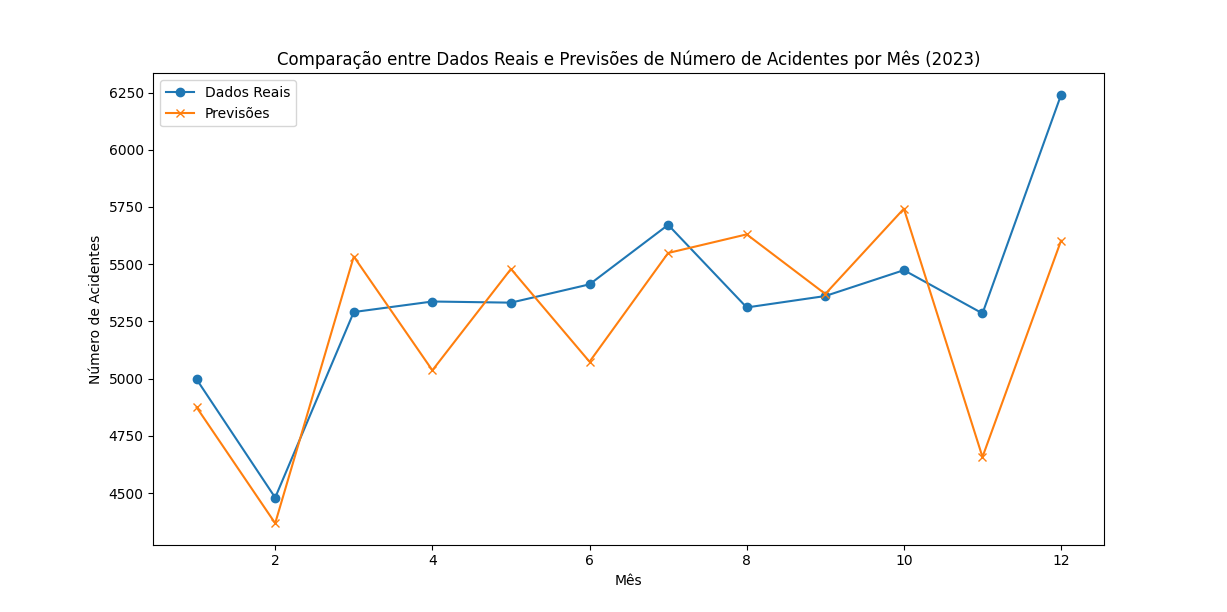
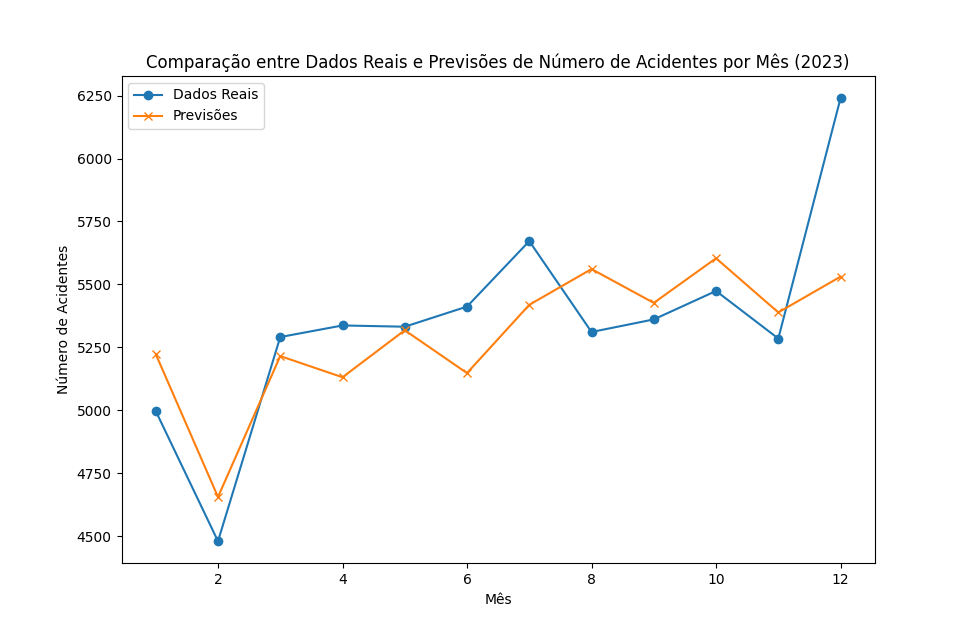
adicionando modelos: SVM, XG-BOOST, K-NN e ELASTIC-NET

diff --git a/XG-BOOST-por-dia.py b/XG-BOOST-por-dia.py
@@ -1,5 +1,7 @@
 import pandas as pd
-from sklearn.neighbors import KNeighborsRegressor
+import numpy as np
+import xgboost as xgb
+from sklearn.preprocessing import StandardScaler
 import matplotlib.pyplot as plt
 
 # Carregar os dados de treinamento
@@ -9,14 +11,21 @@ dados_treino = pd.read_csv('./planilhas/acidentes_por_ano_mes_dia_treino.csv')
 X_treino = dados_treino[['ano', 'mes', 'dia']]
 y_treino = dados_treino['Acidentes']
 
-# Instanciar e treinar o modelo KNN
-modelo = KNeighborsRegressor(n_neighbors=8)  # Defina o número de vizinhos desejado (n_neighbors)
-modelo.fit(X_treino, y_treino)
+# Normalizar os dados
+scaler = StandardScaler()
+X_treino_scaled = scaler.fit_transform(X_treino)
+
+# Construir o modelo XGBoost
+model = xgb.XGBRegressor()
+
+# Treinar o modelo
+model.fit(X_treino_scaled, y_treino)
 
 # Fazer previsões para os dados de teste (ano, mês, dia)
 dados_teste = pd.read_csv('./planilhas/acidentes_por_ano_mes_dia_teste.csv')
 X_teste = dados_teste[['ano', 'mes', 'dia']]
-previsoes = modelo.predict(X_teste)
+X_teste_scaled = scaler.transform(X_teste)  # Normalizar os dados de teste
+previsoes = model.predict(X_teste_scaled)
 
 # Adicionar as previsões ao DataFrame de teste
 dados_teste['Previsoes'] = previsoes

diff --git a/XG-BOOT-percentual.py b/XG-BOOT-percentual.py
@@ -1,5 +1,5 @@
 import pandas as pd
-from sklearn.neighbors import KNeighborsRegressor
+from xgboost import XGBRegressor
 import matplotlib.pyplot as plt
 
 # Carregar os dados de treinamento
@@ -9,8 +9,8 @@ dados_treino = pd.read_csv('./planilhas/acidentes_por_ano_mes_dia_treino.csv')
 X_treino = dados_treino[['ano', 'mes', 'dia']]
 y_treino = dados_treino['Acidentes']
 
-# Instanciar e treinar o modelo KNN
-modelo = KNeighborsRegressor(n_neighbors=8)  # Defina o número de vizinhos desejado (n_neighbors)
+# Instanciar e treinar o modelo XGBoost
+modelo = XGBRegressor()
 modelo.fit(X_treino, y_treino)
 
 # Fazer previsões para os dados de teste (ano, mês, dia)
@@ -34,7 +34,7 @@ meses = dados_teste['mes'].unique()
 plt.plot(meses, acertos_por_mes, label='Média de Acertos', marker='o')
 plt.xlabel('Mês')
 plt.ylabel('Porcentagem de Acertos')
-plt.title('Média de Acertos das Previsões de Número de Acidentes por Mês (2023)')
+plt.title('Média de Acertos das Previsões de Número de Acidentes por Mês (2023) - XGBoost')
 plt.legend()
 plt.show()
 

diff --git a/DECISION-TREE-REGRESSOR-percentual-arcetos.py b/DECISION-TREE-REGRESSOR-percentual-arcetos.py
@@ -6,16 +6,16 @@ import matplotlib.pyplot as plt
 dados_treino = pd.read_csv('./planilhas/acidentes_por_ano_mes_dia_treino.csv')
 
 # Separar as features (X) e o target (y) para treinamento
-X_treino = dados_treino[['ano', 'mes', 'dia']]
+X_treino = dados_treino[['ano', 'mes']]
 y_treino = dados_treino['Acidentes']
 
 # Instanciar e treinar o modelo KNN
 modelo = KNeighborsRegressor(n_neighbors=8)  # Defina o número de vizinhos desejado (n_neighbors)
 modelo.fit(X_treino, y_treino)
 
-# Fazer previsões para os dados de teste (ano, mês, dia)
+# Fazer previsões para os dados de teste (ano, mês)
 dados_teste = pd.read_csv('./planilhas/acidentes_por_ano_mes_dia_teste.csv')
-X_teste = dados_teste[['ano', 'mes', 'dia']]
+X_teste = dados_teste[['ano', 'mes']]
 previsoes = modelo.predict(X_teste)
 
 # Adicionar as previsões ao DataFrame de teste

diff --git a/ELASTIC-NET-percentual.py b/ELASTIC-NET-percentual.py
@@ -1,5 +1,5 @@
 import pandas as pd
-from sklearn.neighbors import KNeighborsRegressor
+from sklearn.linear_model import ElasticNet
 import matplotlib.pyplot as plt
 
 # Carregar os dados de treinamento
@@ -9,8 +9,8 @@ dados_treino = pd.read_csv('./planilhas/acidentes_por_ano_mes_dia_treino.csv')
 X_treino = dados_treino[['ano', 'mes', 'dia']]
 y_treino = dados_treino['Acidentes']
 
-# Instanciar e treinar o modelo KNN
-modelo = KNeighborsRegressor(n_neighbors=8)  # Defina o número de vizinhos desejado (n_neighbors)
+# Instanciar e treinar o modelo ElasticNet
+modelo = ElasticNet(alpha=0.1, l1_ratio=0.5)  # Defina os parâmetros alpha e l1_ratio conforme necessário
 modelo.fit(X_treino, y_treino)
 
 # Fazer previsões para os dados de teste (ano, mês, dia)

diff --git a/ELASTIC-NET-por-dia.py b/ELASTIC-NET-por-dia.py
@@ -1,5 +1,5 @@
 import pandas as pd
-from sklearn.neighbors import KNeighborsRegressor
+from sklearn.linear_model import ElasticNet
 import matplotlib.pyplot as plt
 
 # Carregar os dados de treinamento
@@ -9,8 +9,8 @@ dados_treino = pd.read_csv('./planilhas/acidentes_por_ano_mes_dia_treino.csv')
 X_treino = dados_treino[['ano', 'mes', 'dia']]
 y_treino = dados_treino['Acidentes']
 
-# Instanciar e treinar o modelo KNN
-modelo = KNeighborsRegressor(n_neighbors=8)  # Defina o número de vizinhos desejado (n_neighbors)
+# Instanciar e treinar o modelo ElasticNet
+modelo = ElasticNet(alpha=0.1, l1_ratio=0.5)  # Defina os parâmetros alpha e l1_ratio conforme necessário
 modelo.fit(X_treino, y_treino)
 
 # Fazer previsões para os dados de teste (ano, mês, dia)

diff --git a/DECISION-TREE-REGRESSOR-por-dia.py b/DECISION-TREE-REGRESSOR-por-dia.py
@@ -1,5 +1,5 @@
 import pandas as pd
-from sklearn.neighbors import KNeighborsRegressor
+from sklearn.tree import DecisionTreeRegressor
 import matplotlib.pyplot as plt
 
 # Carregar os dados de treinamento
@@ -9,8 +9,8 @@ dados_treino = pd.read_csv('./planilhas/acidentes_por_ano_mes_dia_treino.csv')
 X_treino = dados_treino[['ano', 'mes', 'dia']]
 y_treino = dados_treino['Acidentes']
 
-# Instanciar e treinar o modelo KNN
-modelo = KNeighborsRegressor(n_neighbors=8)  # Defina o número de vizinhos desejado (n_neighbors)
+# Instanciar e treinar o modelo de Árvore de Decisão
+modelo = DecisionTreeRegressor(max_depth=8)  # Defina a profundidade máxima da árvore
 modelo.fit(X_treino, y_treino)
 
 # Fazer previsões para os dados de teste (ano, mês, dia)

diff --git a/SVM-percentual.py b/SVM-percentual.py
@@ -1,5 +1,5 @@
 import pandas as pd
-from sklearn.neighbors import KNeighborsRegressor
+from sklearn.svm import SVR
 import matplotlib.pyplot as plt
 
 # Carregar os dados de treinamento
@@ -9,8 +9,8 @@ dados_treino = pd.read_csv('./planilhas/acidentes_por_ano_mes_dia_treino.csv')
 X_treino = dados_treino[['ano', 'mes', 'dia']]
 y_treino = dados_treino['Acidentes']
 
-# Instanciar e treinar o modelo KNN
-modelo = KNeighborsRegressor(n_neighbors=8)  # Defina o número de vizinhos desejado (n_neighbors)
+# Instanciar e treinar o modelo SVM
+modelo = SVR(kernel='linear')  # Escolha o tipo de kernel adequado para o seu problema
 modelo.fit(X_treino, y_treino)
 
 # Fazer previsões para os dados de teste (ano, mês, dia)

diff --git a/SVM-por-dia.py b/SVM-por-dia.py
@@ -1,5 +1,5 @@
 import pandas as pd
-from sklearn.neighbors import KNeighborsRegressor
+from sklearn.svm import SVR
 import matplotlib.pyplot as plt
 
 # Carregar os dados de treinamento
@@ -9,8 +9,8 @@ dados_treino = pd.read_csv('./planilhas/acidentes_por_ano_mes_dia_treino.csv')
 X_treino = dados_treino[['ano', 'mes', 'dia']]
 y_treino = dados_treino['Acidentes']
 
-# Instanciar e treinar o modelo KNN
-modelo = KNeighborsRegressor(n_neighbors=8)  # Defina o número de vizinhos desejado (n_neighbors)
+# Instanciar e treinar o modelo SVM
+modelo = SVR(kernel='linear')  # Escolha o tipo de kernel adequado para o seu problema
 modelo.fit(X_treino, y_treino)
 
 # Fazer previsões para os dados de teste (ano, mês, dia)
